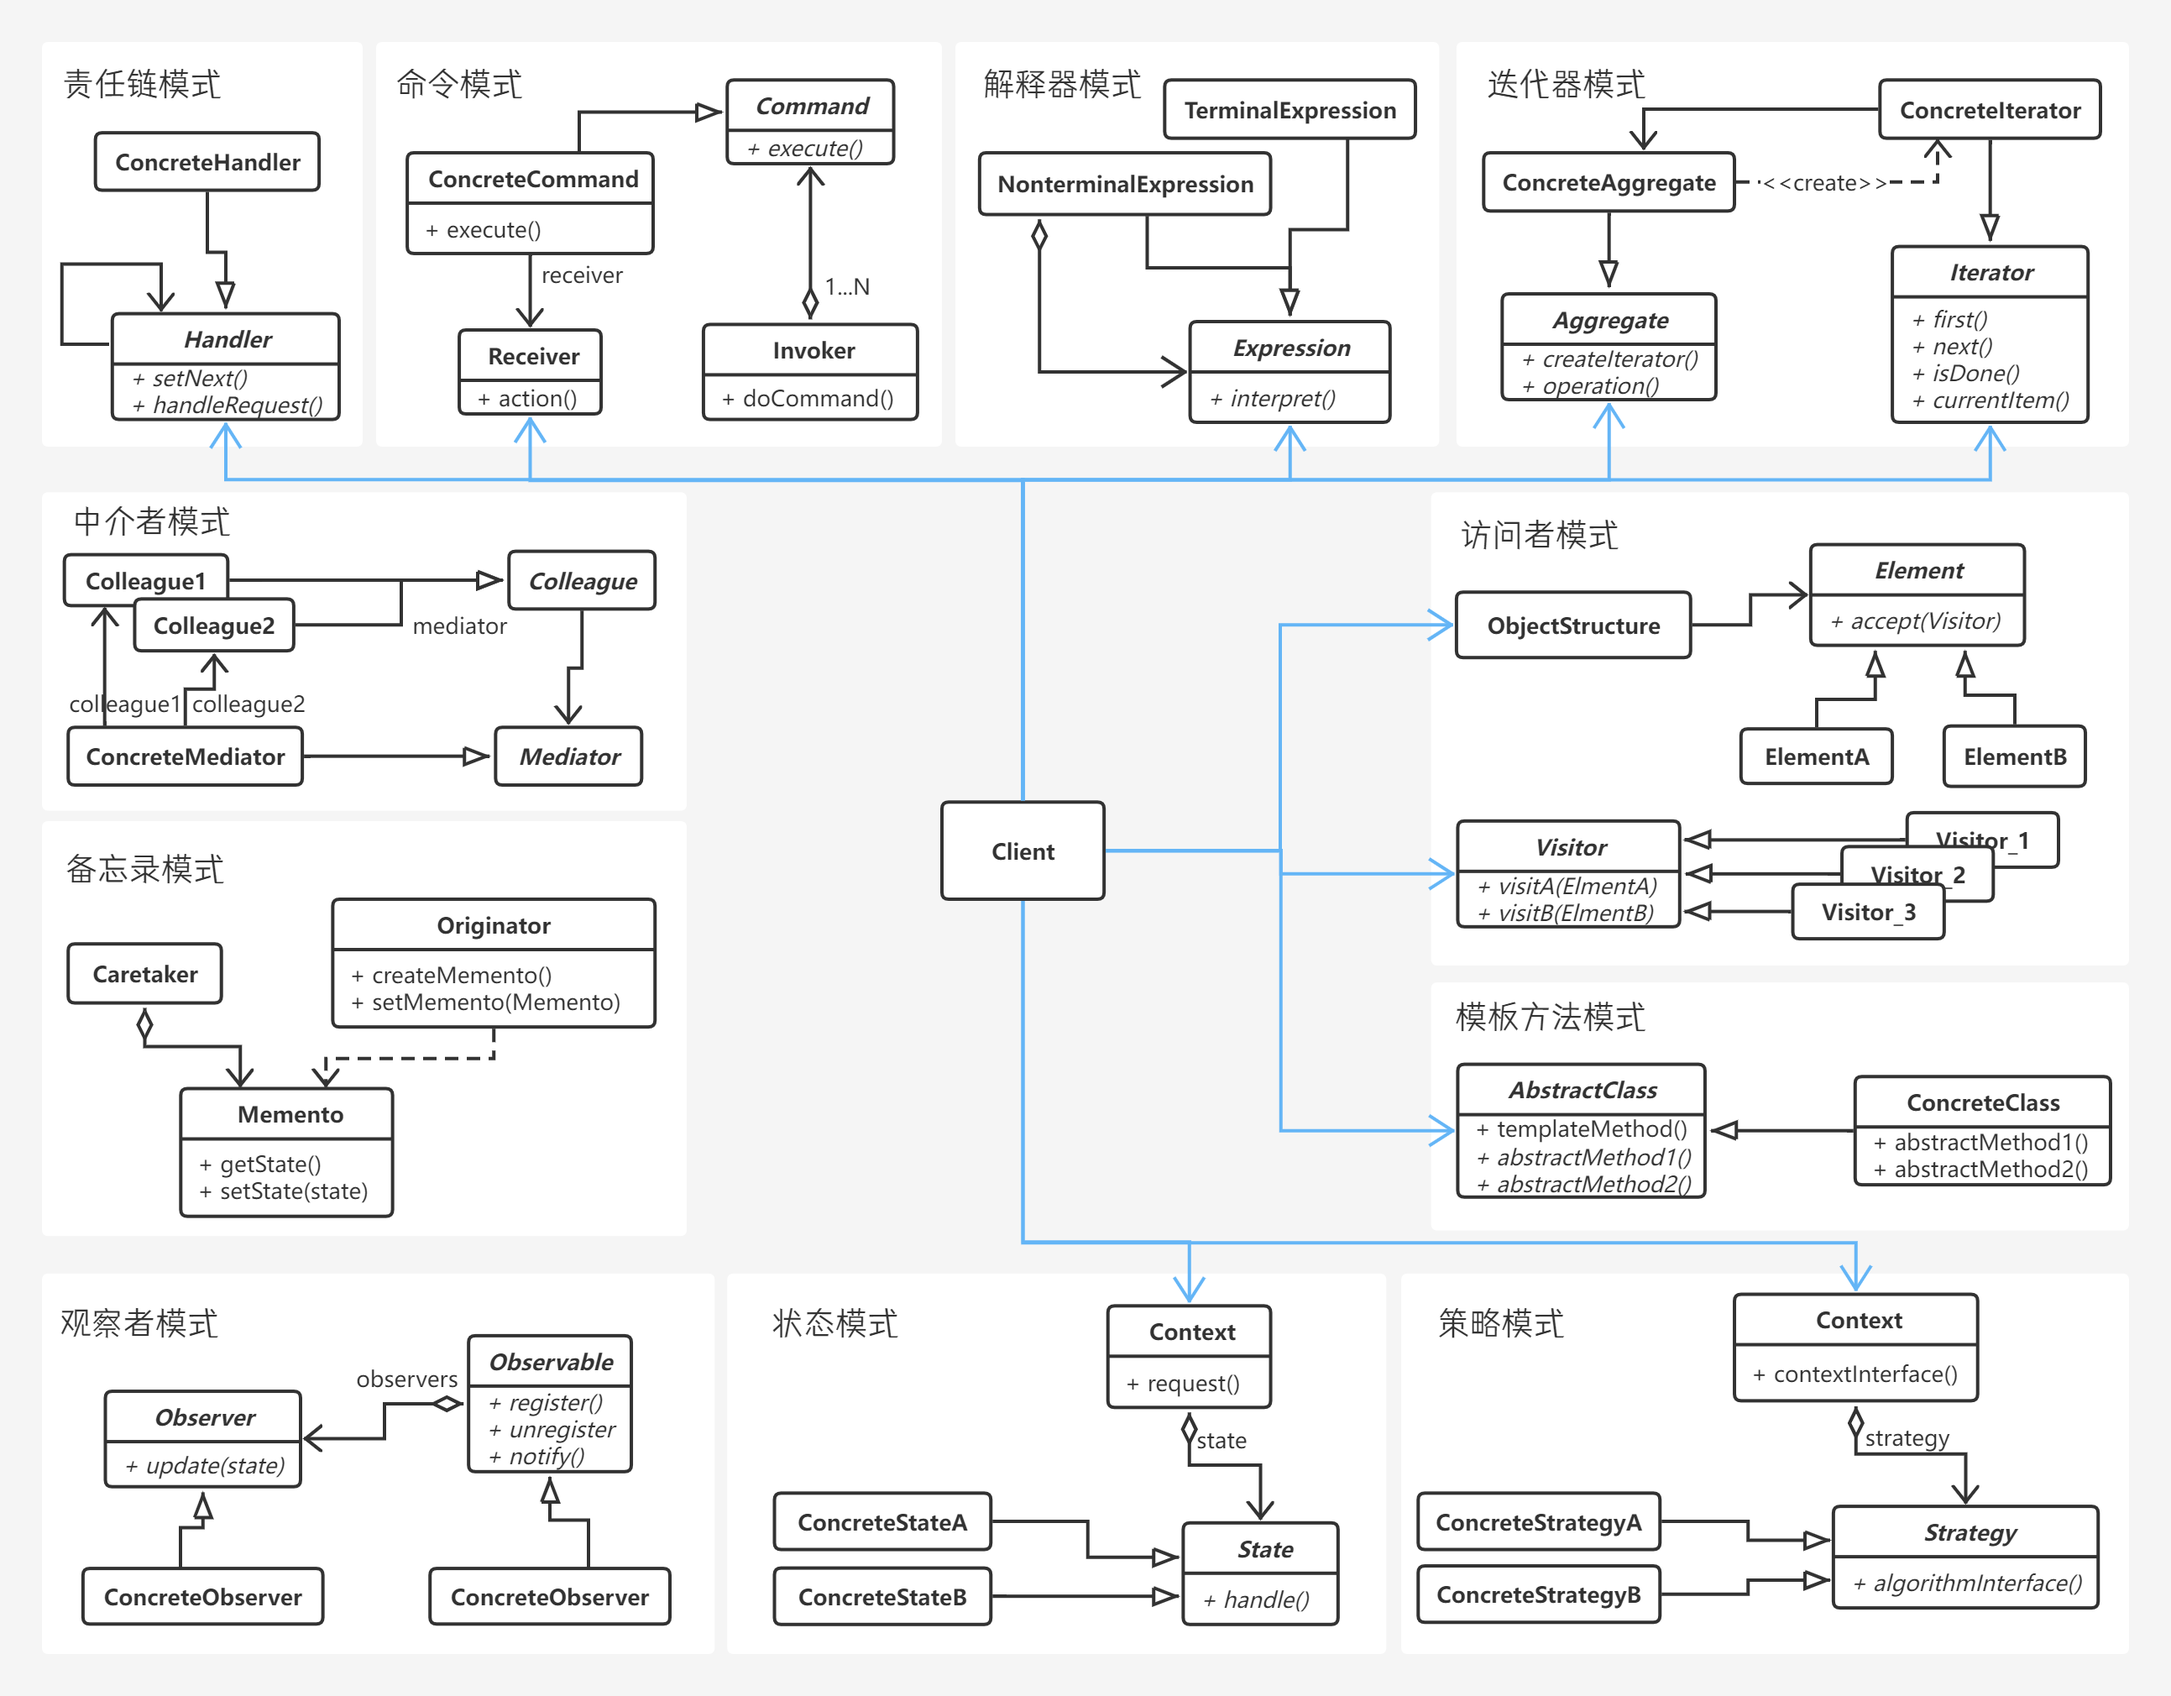
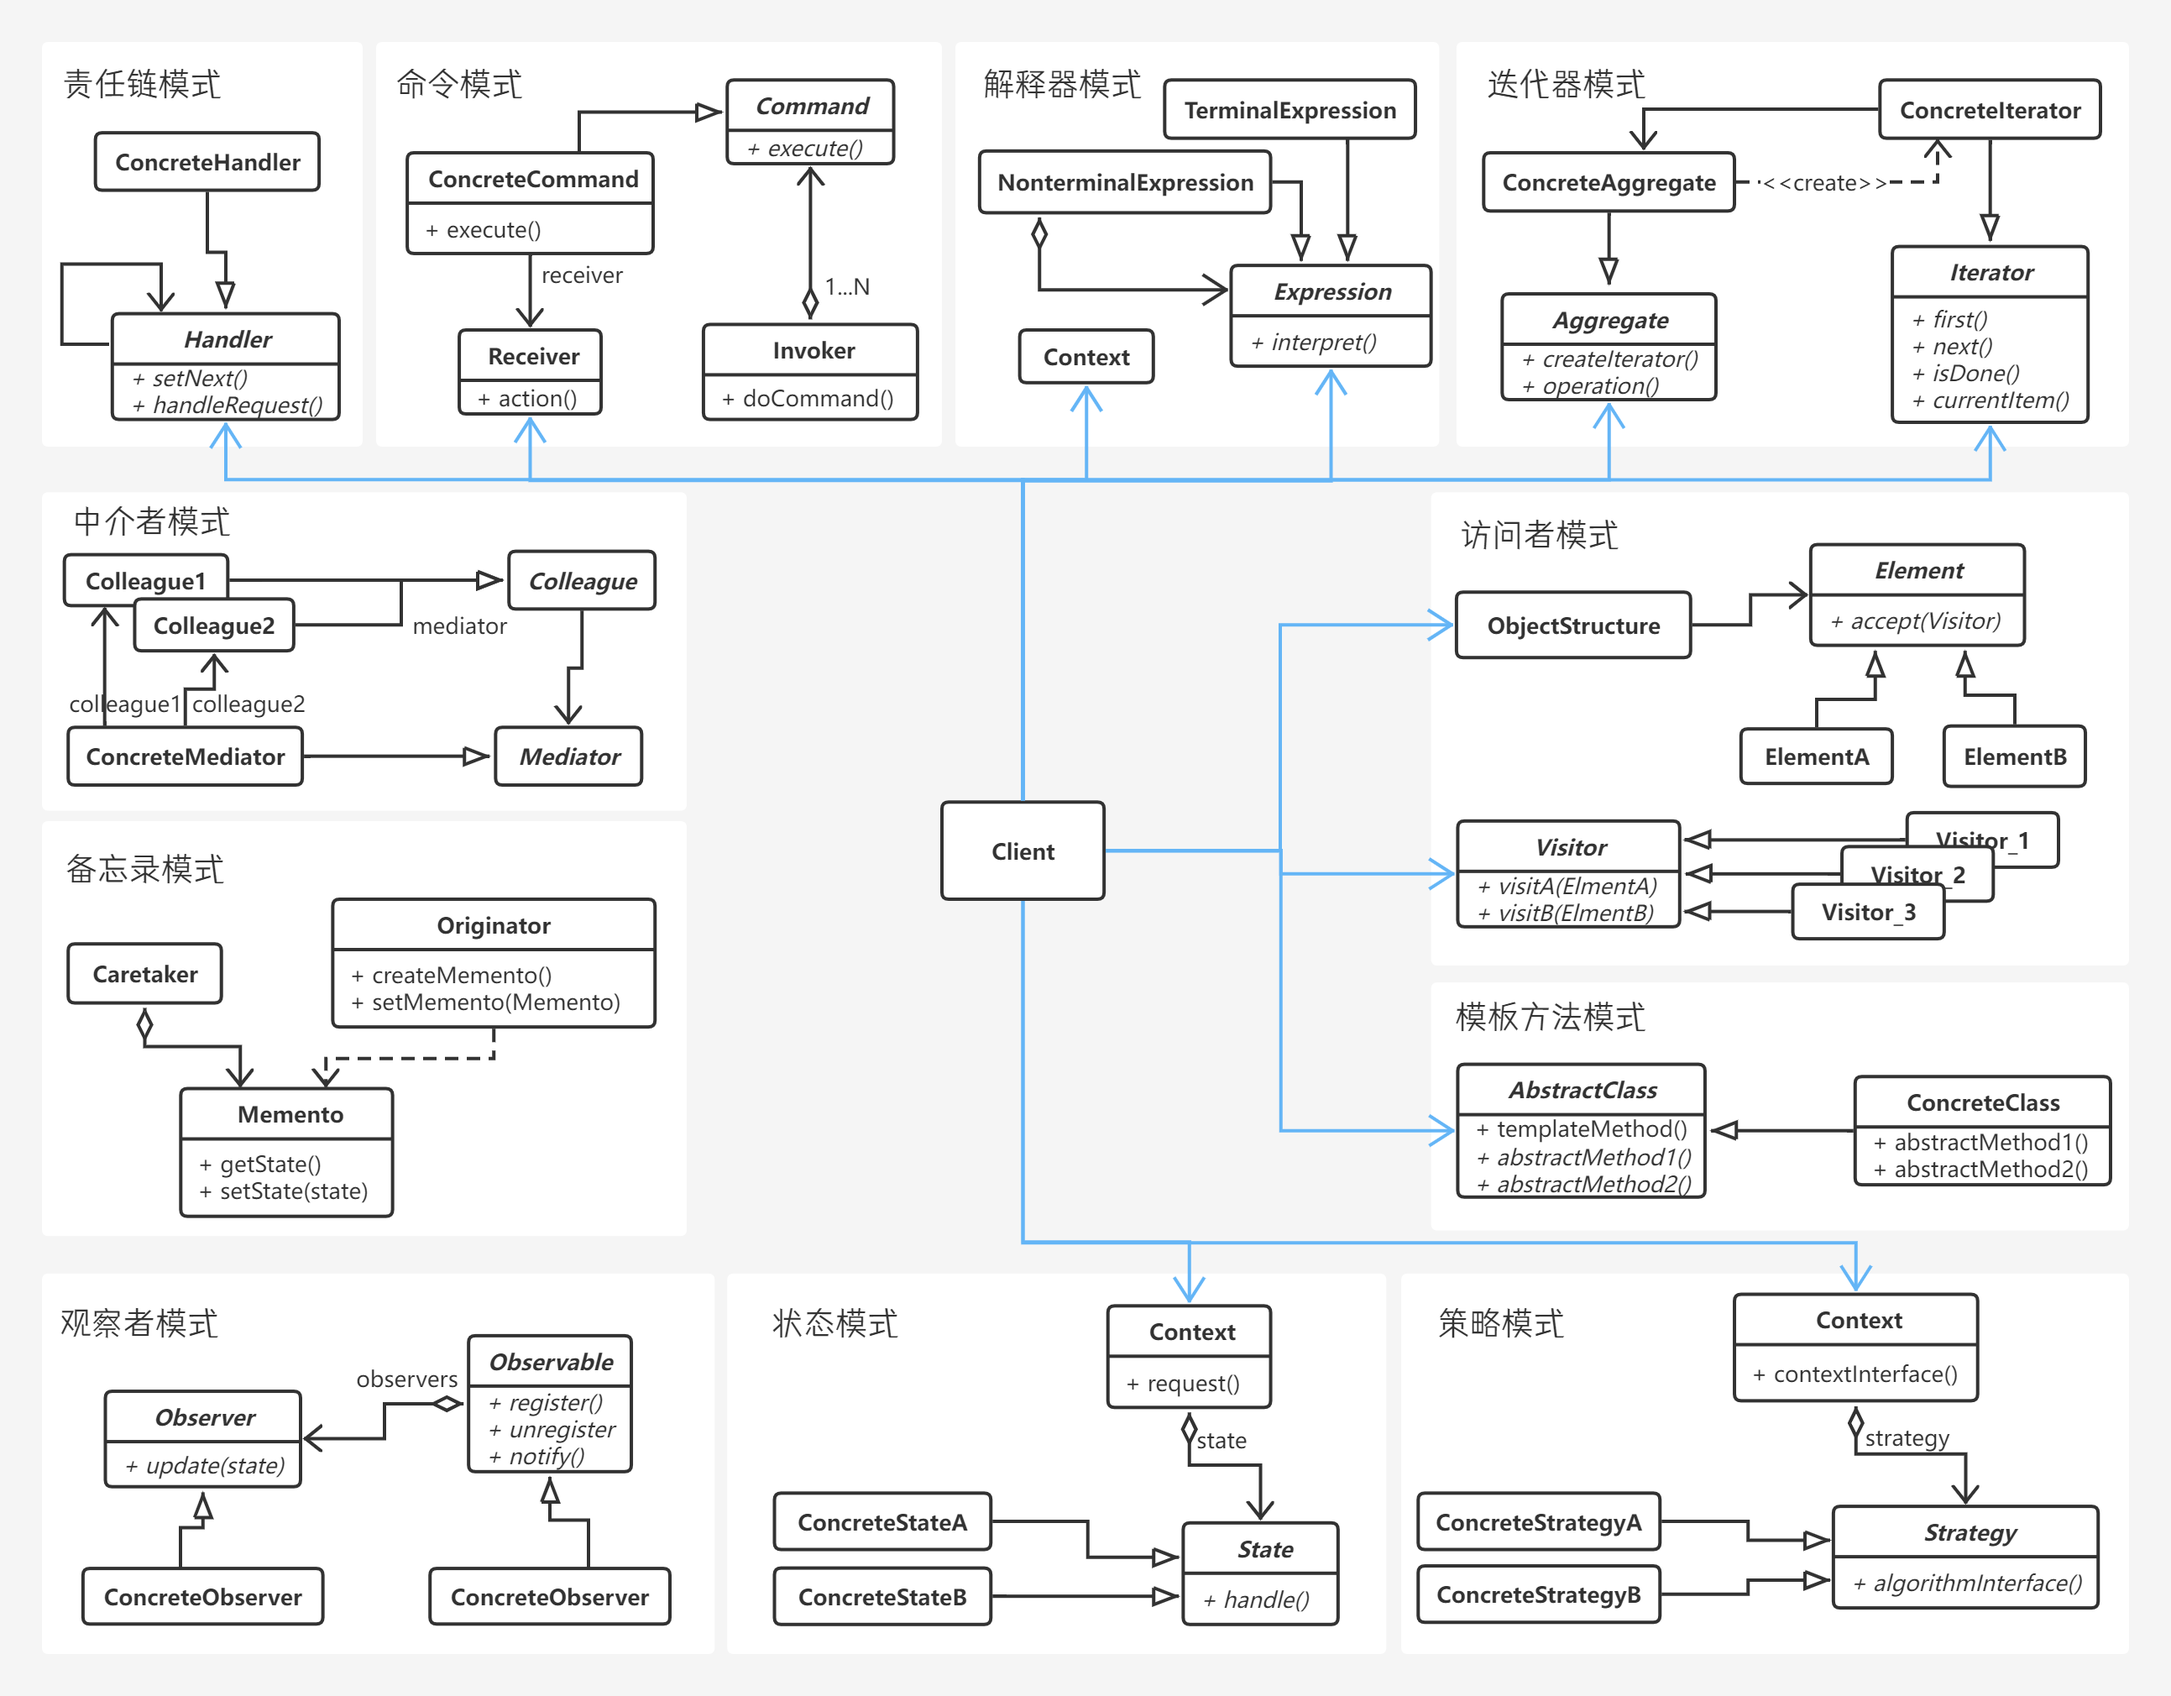
composite vs interpreter

Changed region(s): [[0.464, 0.0936, 0.6497, 0.2807]]

diff --git a/doc/difference-of-patterns.md b/doc/difference-of-patterns.md
@@ -33,6 +33,17 @@
 尽管如此，他们还是在某些方面表现出各自的特性。从意图来看，装饰器模式依靠层层包装的机制，动态的给原始对象增加一些职责，每个装饰器对象内部仅维护一个组件（或者包装器）对象；组合模式的主要目的是为了表示部分-整体的树形关系，每一个组合对象内部均可维护多个叶子节点（或者组合对象），相较于装饰器模式来说，组合模式的侧重点是对象的聚集（比如获取子节点列表的行为`Component#getChildren()`、添加子节点的行为`Component#add(Component)`），是如何将一系列对象组织成一个树形结构，以便我们可以像处理单个对象一样来处理多个组合的对象。我们可以武断的认为装饰器模式是退化的（不注重对象的聚集）、内部仅维护一个组件的组合模式，但你必须牢记他们的出发点完全不一样。
 
 ## 【2.2】组合模式vs解释器模式
+<div align="center">
+   <img src="/doc/resource/difference/组合vs解释器.png" width="60%"/>
+</div>
+
+组合模式与解释器模式的结构差不多，这并不是巧合，事实上，我们可以认为**解释器模式中的某些部分**是组合模式的实例。在上面我们提到组合模式是为了将一系列对象聚集成树形结构，以此来表示“部分-整体”的关系。譬如汽车由发动机、轮胎、车座等部件组成，而发动机又由燃料系统、启动系统、点火系统和冷却系统等组成，此时所有的对象就组成了一棵树。如果汽车代表“整体”，那么发动机、轮胎、车座等部件就是“部分”；如果发动机作为“整体”，那么燃料系统、启动系统等才是“部分”。
+
+而解释器模式将一个复杂的完整表达式的求解过程拆分到一个个简单的解释器对象中，通过这些简单的对象便能完成求解。例如`x+y`这样的的一个表达式，对于表示符号`+`的`NonterminalExpression`对象来说，必定维护了一个表示`x`的表达式引用和一个表示`y`的表达式引用，而他只需要完成前后两部分最终值的求和即可。正如我们在解释器模式一章中所说，一个完整的表达式最终会被解析成为一个抽象语法树对象，从结果上来讲，这些简单的解释器对象在无形之中就组成了一个树形结构。
+
+尽管组合模式和解释器模式出于不同的出发点考虑，却殊途同归的呈现出来同样的结构。从这个角度来说，我们可以认为解释器模式中的抽象语法树是组合模式的一个实例。注意，这并不是说解释器模式是抽象语法树的一个实例，我们仅仅指的是解释器模式中的抽象语法树（除环境类`Context`之外的部分）。
+
+但从侧重点的角度上来说，他们就完全不一样，我们构建抽象语法树的目的是为了解释一个复杂的句子，语法树中的每个对象都有解释自身的操作，所以解释器模式关心的是解释这一行为。但组合模式将更多的精力投入到对象的组织上，所以组合模式属于结构型模式，而解释器模式属于行为型模式。
 
 ## 【2.3】中介模式vs门面模式
 
